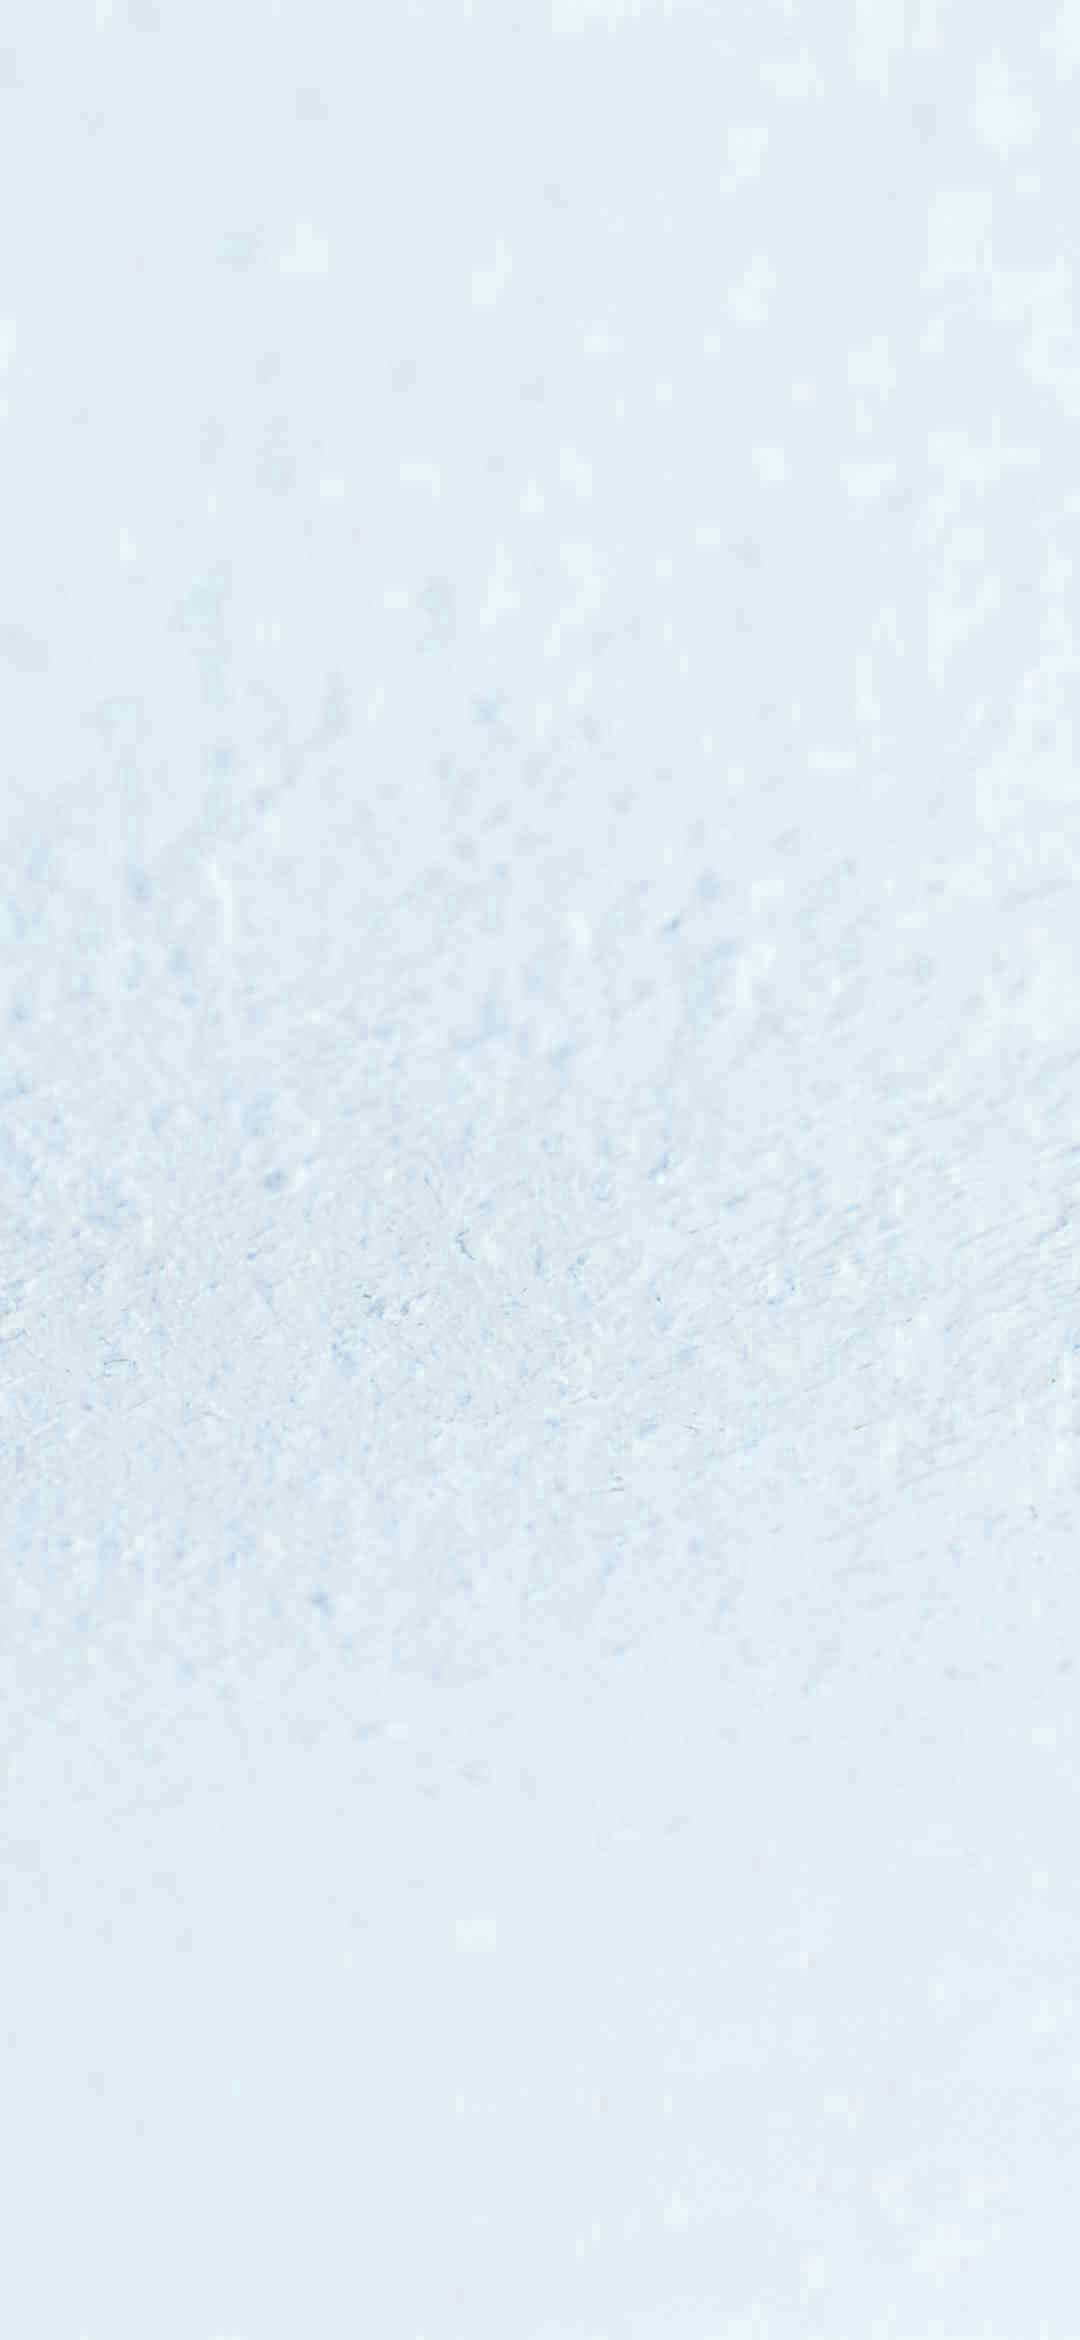
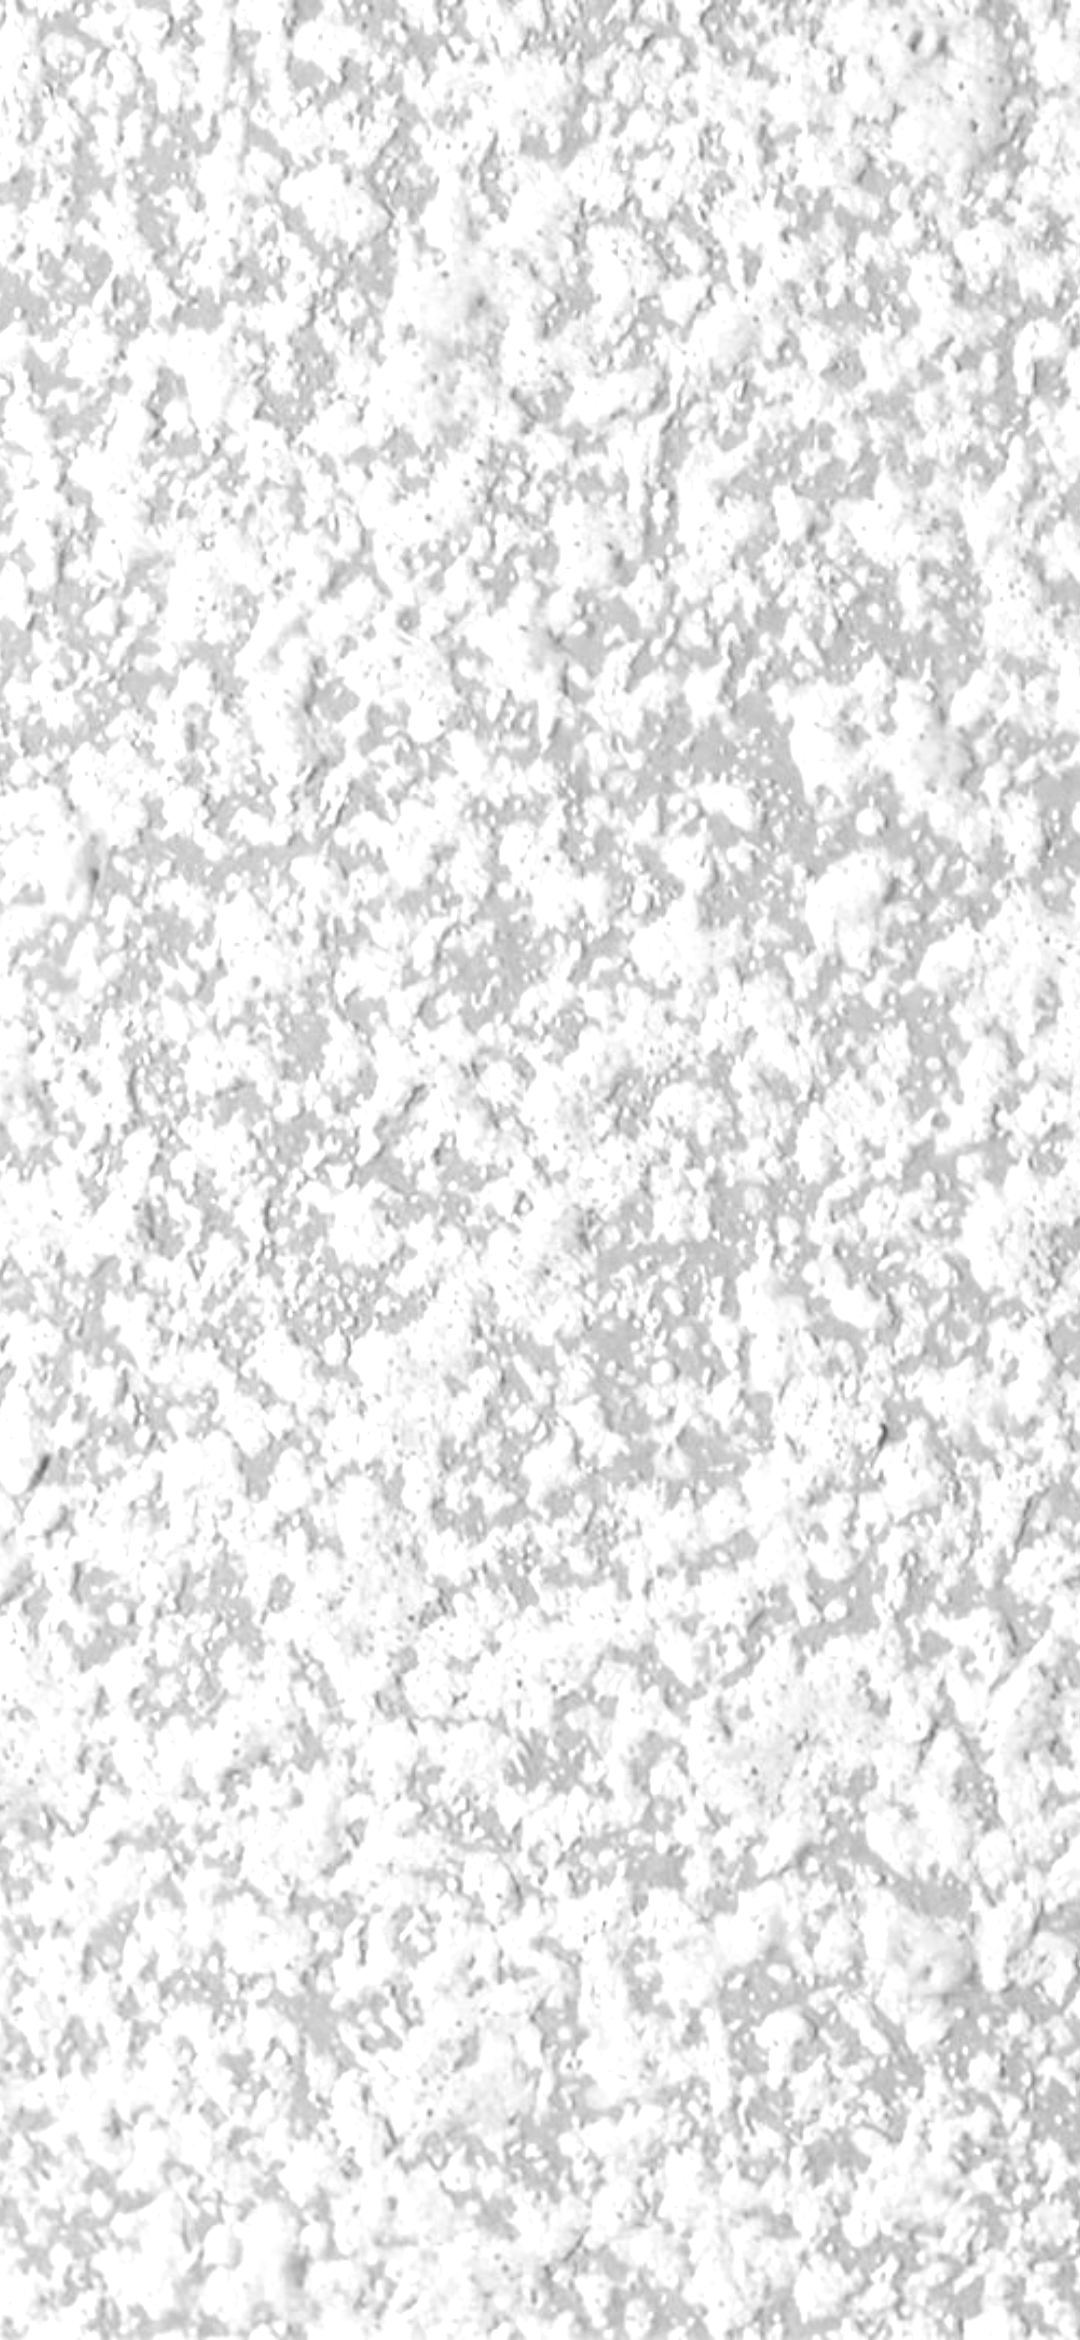
commit

diff --git a/index.html b/index.html
@@ -112,7 +112,7 @@ h1 {
     <main>
       <header>
         <figure>
-          <img src="ronnie.jpg" alt="Headshot of Ronnie Smith" loading="lazy" width="112" height="112" class=round>
+          <img src="ronnie.jpg" alt="Headshot of Ronnie Smith" loading="lazy" width="72" height="72" class=round>
           <figcaption>
             <strong>Ronnie Smith</strong><br>
             Drywall Repair | Painting<br>
